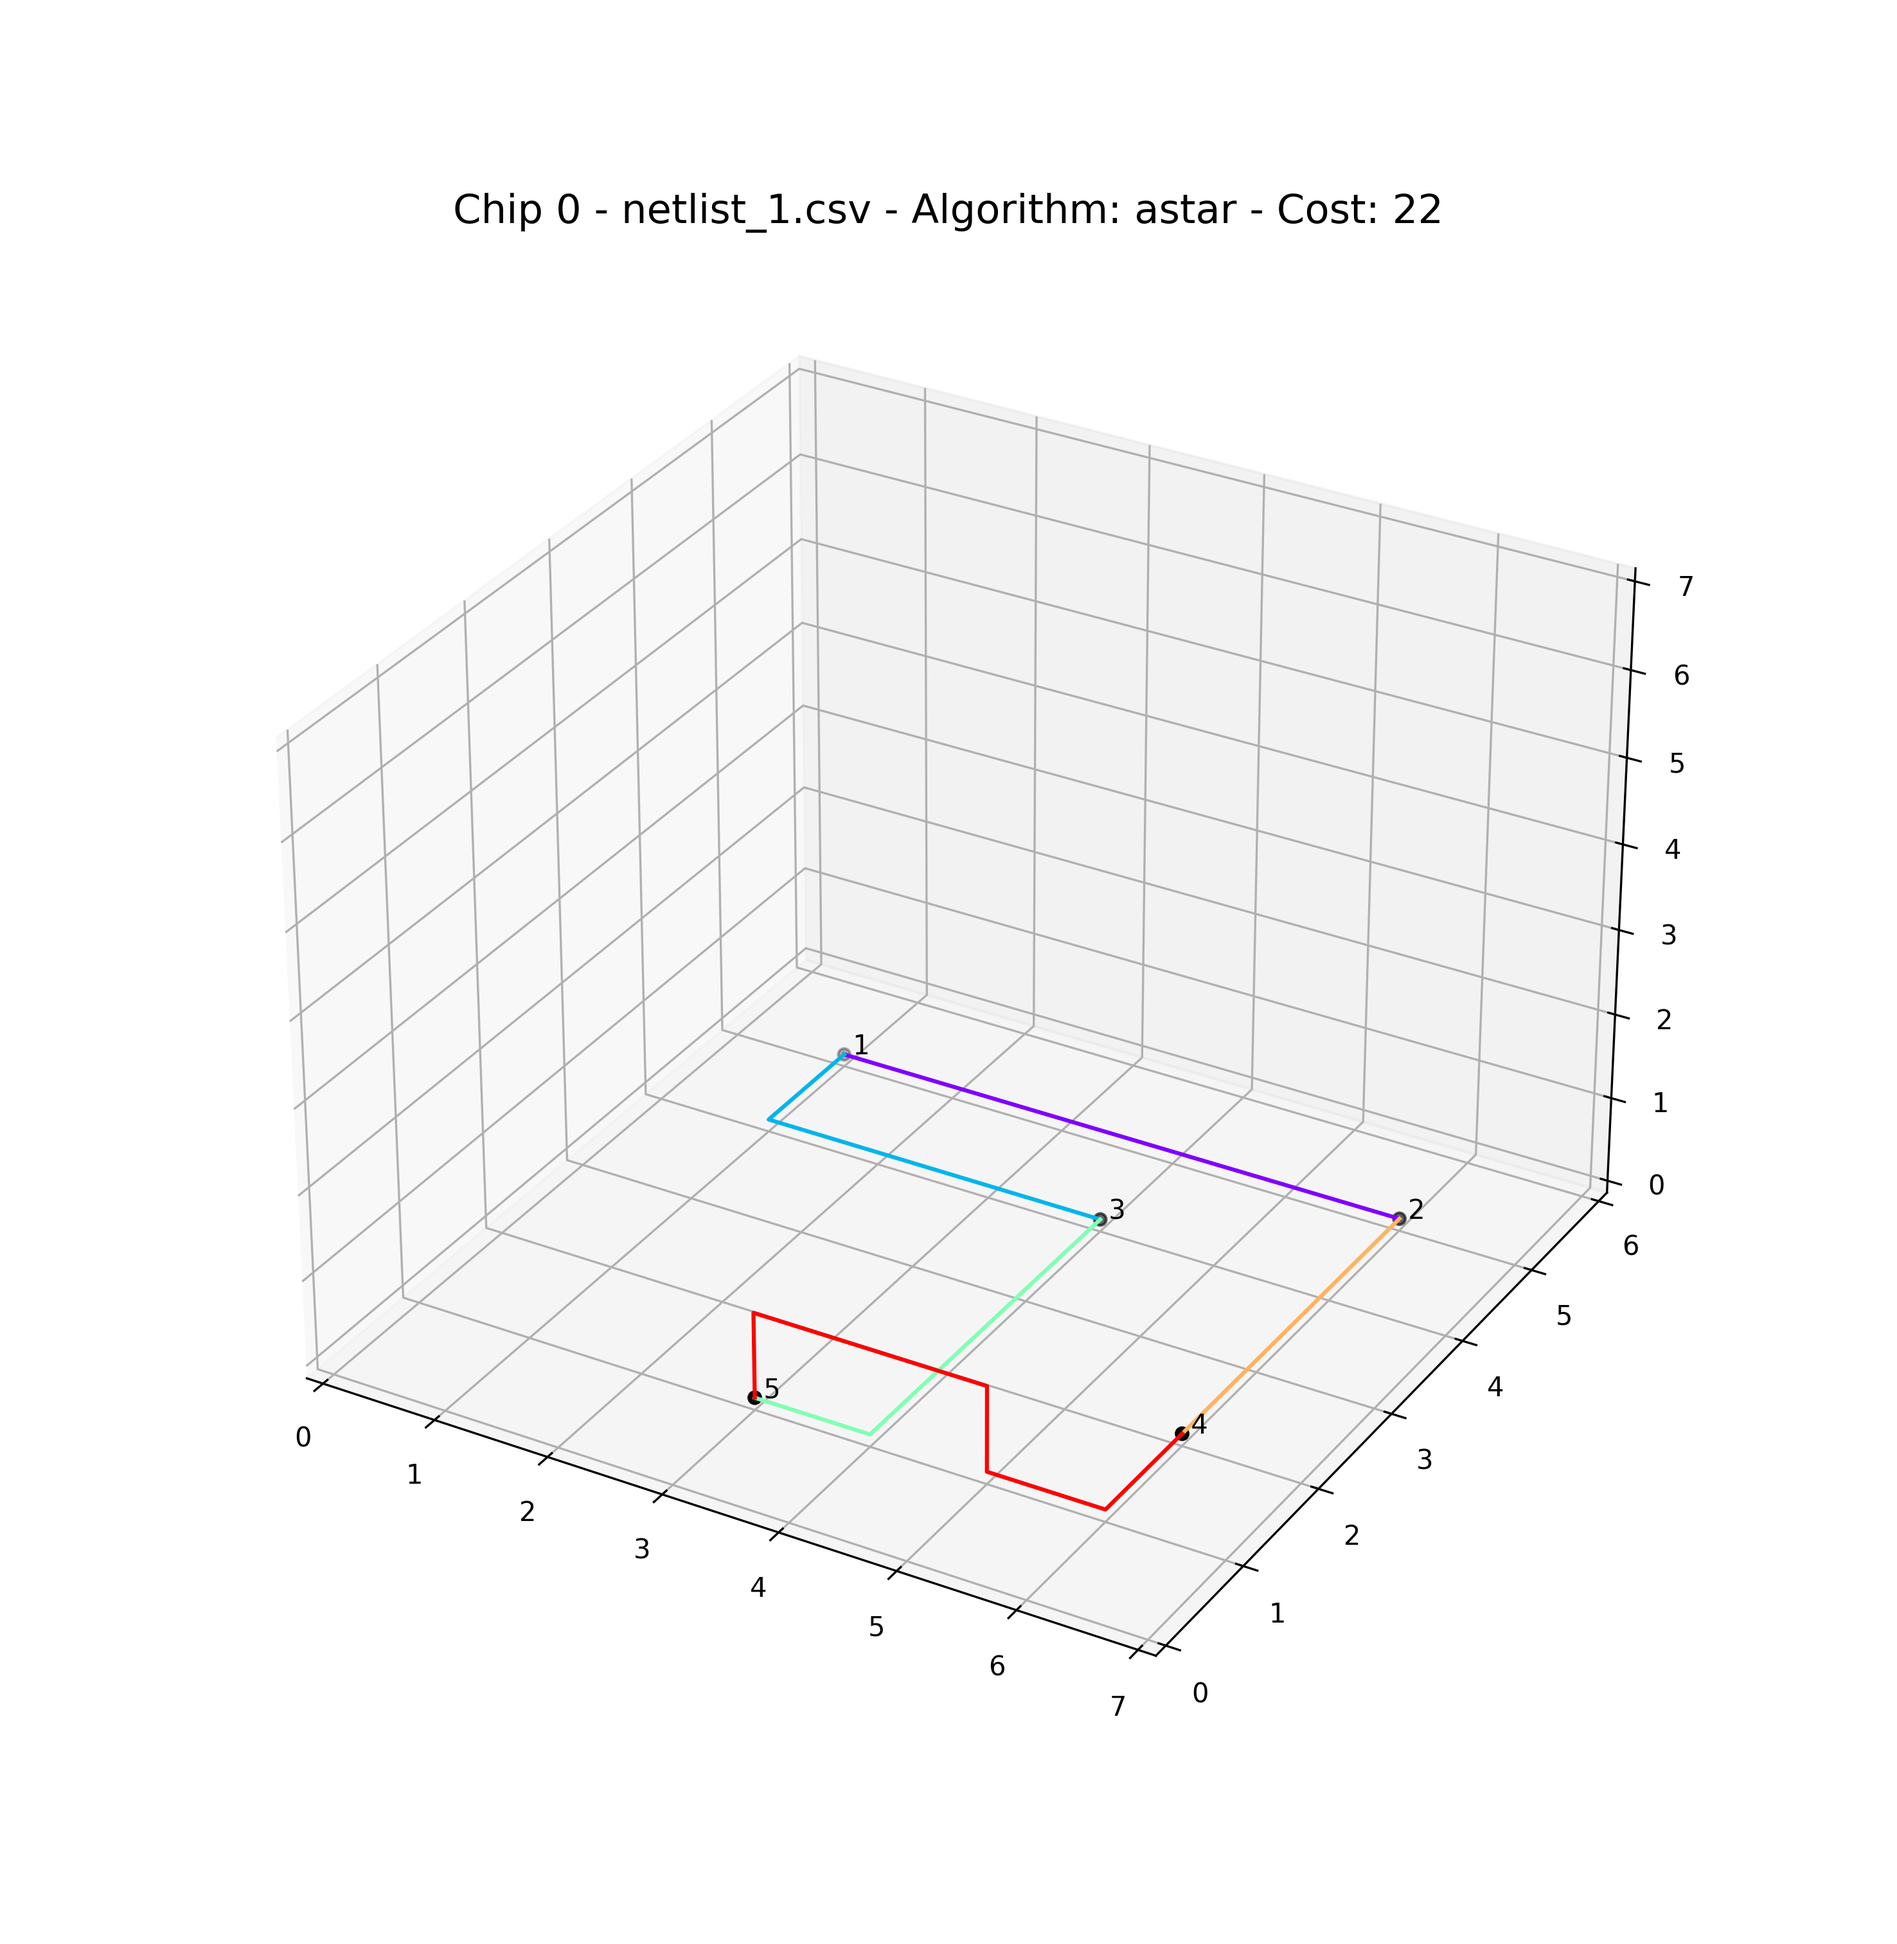
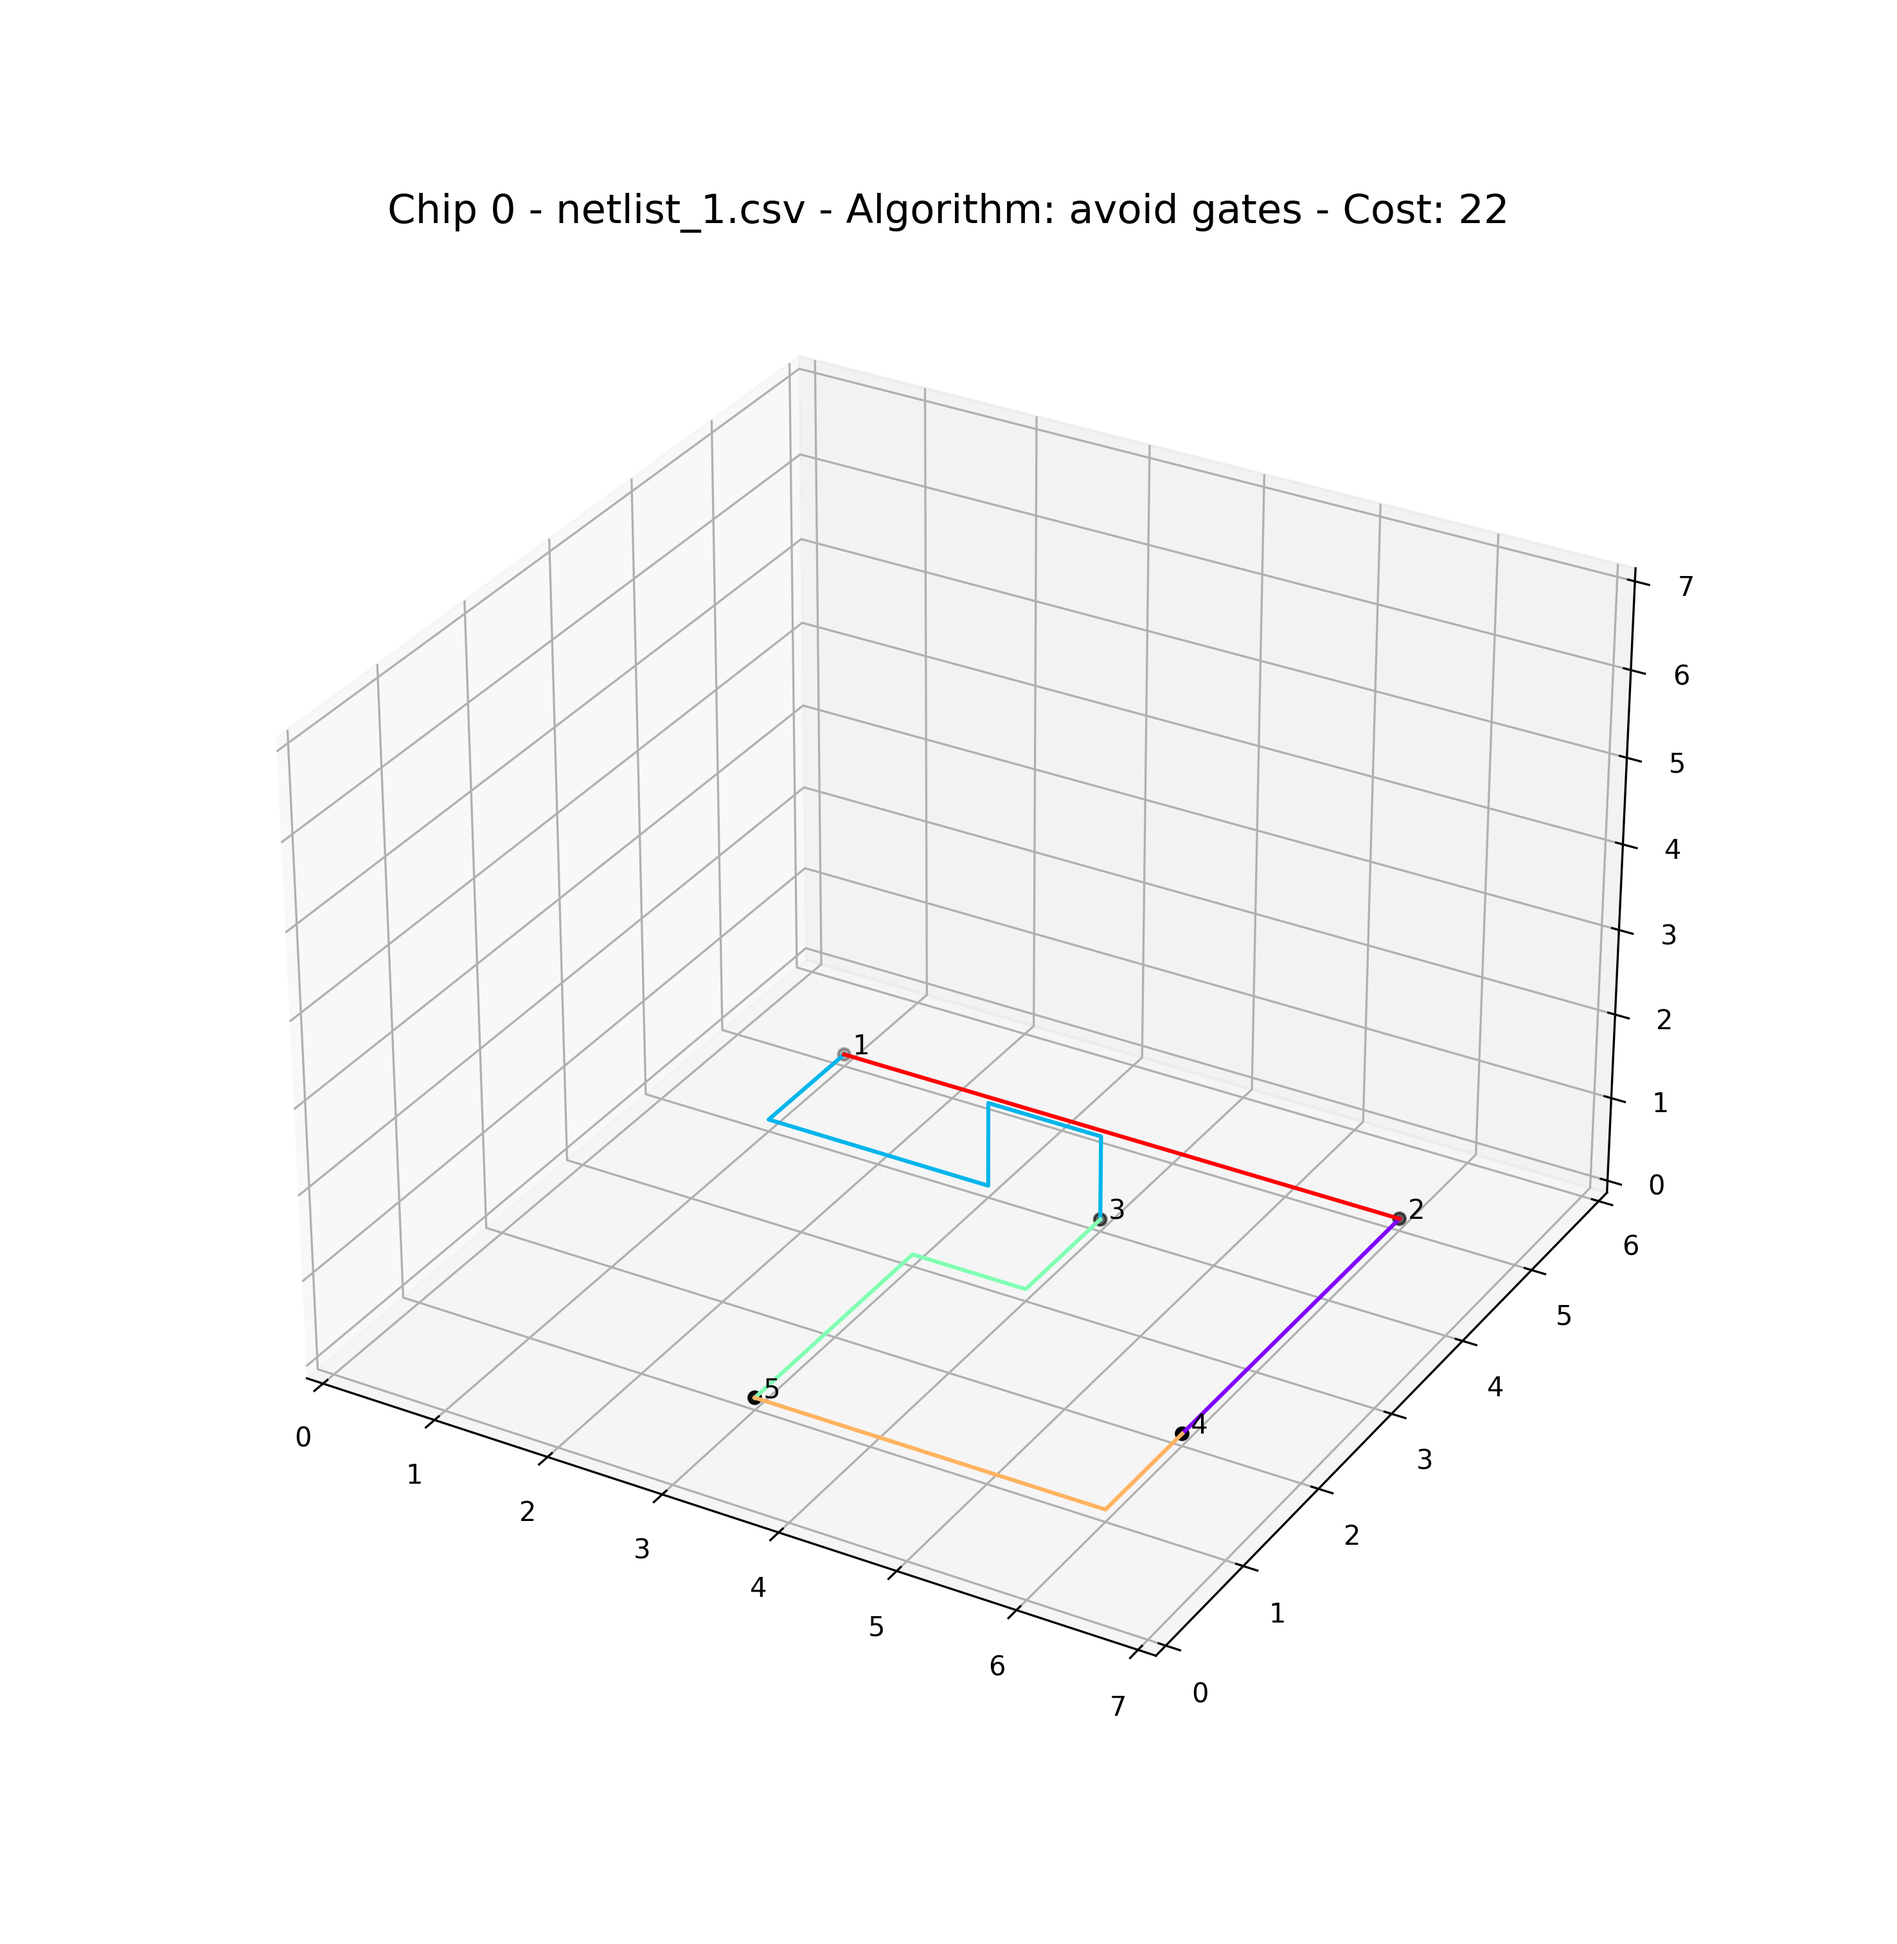
Added avoid gates heuristic to A*

diff --git a/code/algorithms/astar.py b/code/algorithms/astar.py
@@ -57,7 +57,7 @@ class Heuristics:
 
         return manhattan_distance
     
-    def no_heuristics(self, chip: "Chip", next_segment: "WireSegment", father_coords: tuple[int, int, int]):
+    def default(self, chip: "Chip", next_segment: "WireSegment", father_coords: tuple[int, int, int]):
         """ Default A*, only takes wire intersection costs into account """
 
         # Check if position already contains a wire segment and assign wire cost
@@ -73,12 +73,26 @@ class Heuristics:
         # Assign total cost
         next_segment.total_cost = next_segment.wire_cost + manhattan_distance
 
-    def assign_next_segment_costs(self, chip: "Chip", next_segment: "WireSegment", father_coords: tuple[int, int, int]):
+    def avoid_gates(self, chip: "Chip", next_segment: "WireSegment", mother_coords: tuple[int, int, int], father_coords: tuple[int, int, int]):
+        segment_position = next_segment.position
+        grid_size = chip.grid.get_grid_size()
+        
+        avoid_distance = 2
+        for z in range(segment_position[2], segment_position[2] + avoid_distance + 1):
+            for y in range(segment_position[1], segment_position[1] + avoid_distance + 1):
+                for x in range(segment_position[0], segment_position[0] + avoid_distance + 1):
+                    if (x < grid_size[0] and y < grid_size[1] and z < grid_size[2]):
+                        if (chip.grid.values[z][y][x] > 0 and not (x,y,z) == mother_coords and not (x,y,z) == father_coords):
+                            next_segment.wire_cost += 50
+
+    def assign_next_segment_costs(self, chip: "Chip", next_segment: "WireSegment", mother_coords: tuple[int, int, int], father_coords: tuple[int, int, int]):
         """ Determines and assigns the cost of using a wire segment to the object """
 
-        """ Apply different costs based on chosen heuristic """
-        if (self.heuristic == None):
-            self.no_heuristics(chip, next_segment, father_coords)
+        # Apply different costs based on chosen heuristic
+        self.default(chip, next_segment, father_coords)
+        if (self.heuristic == "avoid_gates"):
+            self.avoid_gates(chip, next_segment, mother_coords, father_coords)
+            next_segment.total_cost = next_segment.wire_cost + next_segment.manhattan_cost
 
 
 class AstarAlg:
@@ -264,7 +278,7 @@ class AstarAlg:
                     continue
 
                 # Assign costs to the next segment
-                self.heuristic.assign_next_segment_costs(self.chip, segment, father_coords)
+                self.heuristic.assign_next_segment_costs(self.chip, segment, mother_coords, father_coords)
 
                 # Check if possible next segment already in open list
                 for index, open_segment in enumerate(open_list):
@@ -294,7 +308,7 @@ class AstarAlg:
                 manhattan_distance = self.heuristic.calculate_manhattan_distance(mother.get_coords(), father.get_coords())
                 connections.append((mother, father, manhattan_distance))
 
-        #connections.sort(key=operator.itemgetter(2))
+        connections.sort(key=operator.itemgetter(2))
         
         return connections
 

diff --git a/code/main.py b/code/main.py
@@ -71,6 +71,10 @@ if __name__ == "__main__":
         chip = astar.chip
         visualise(chip, algorithm, output_filename)
 
+        astar = AstarAlg(chip_number, netlist_number, output_filename, "avoid_gates")
+        chip = astar.chip
+        visualise(chip, "avoid gates", output_filename)
+
     else:
         print("Invalid algorithm: Choose from random, hillclimber or astar")
         sys.exit(1)
